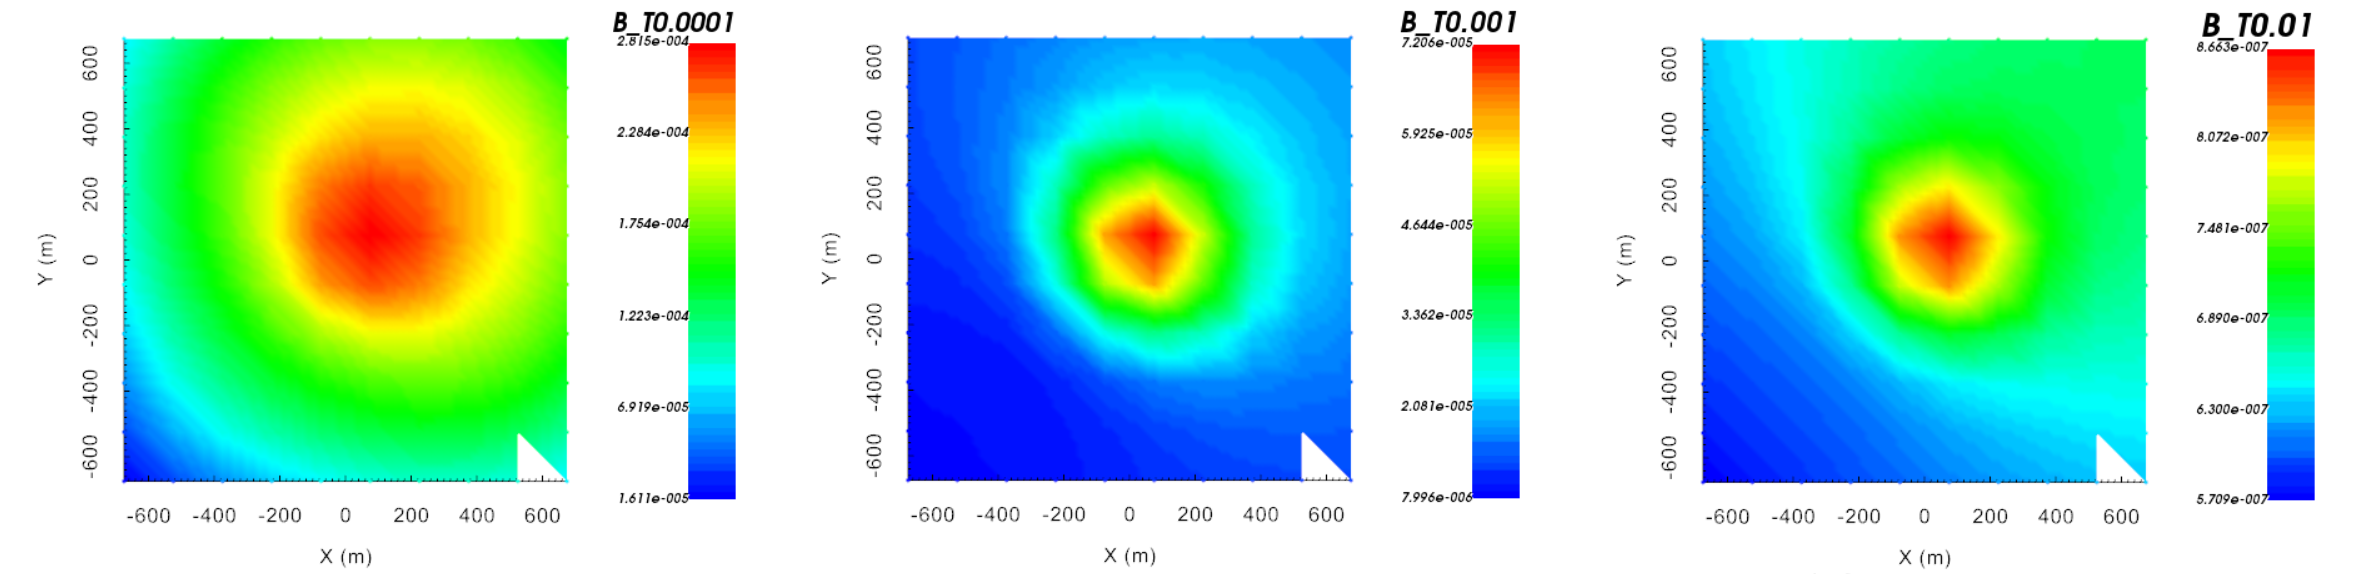
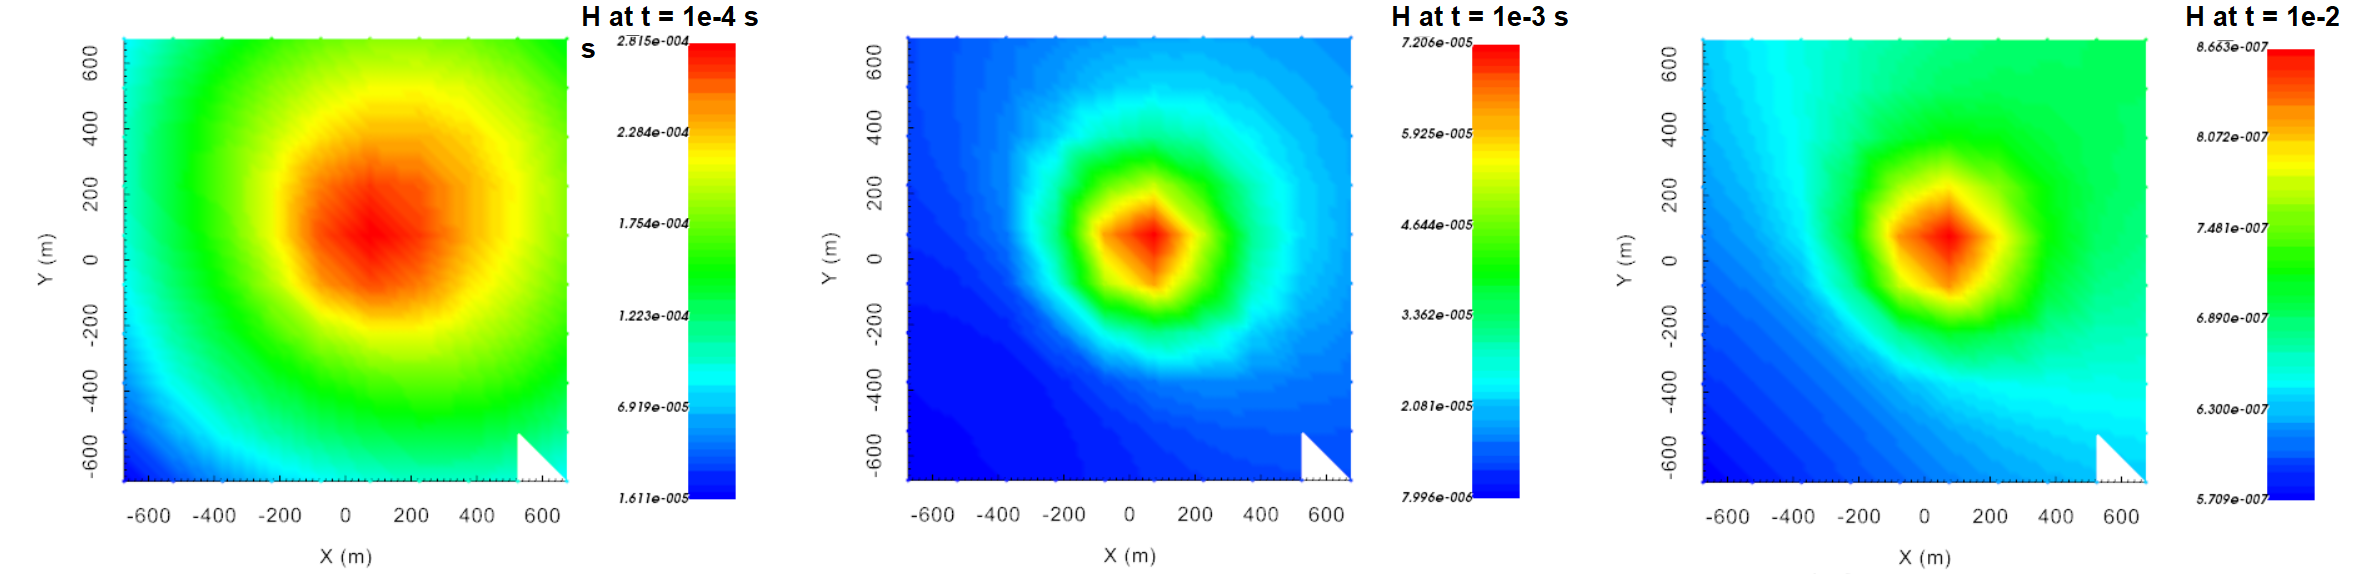
update SAM data for correct units

Changed region(s): [[0.587, 0.0, 0.6796, 0.0617], [0.9268, 0.0, 0.9886, 0.0617], [0.2471, 0.0, 0.3089, 0.0617]]

diff --git a/content/files/obsFile.rst b/content/files/obsFile.rst
@@ -193,25 +193,25 @@ Contains the X (Easting), Y (Northing), Z (elevation) locations and time channel
 
 .. math::
     \begin{align}
-    &\;\, x_1 \;\;\; y_1 \;\;\; z_1 \;\;\; t_1 \;\;\; B \;\;\; Unc \\
-    &\;\, x_1 \;\;\; y_1 \;\;\; z_1 \;\;\; t_2 \;\;\; B \;\;\; Unc \\
+    &\;\, x_1 \;\;\; y_1 \;\;\; z_1 \;\;\; t_1 \;\;\; H_a \;\;\; Unc \\
+    &\;\, x_1 \;\;\; y_1 \;\;\; z_1 \;\;\; t_2 \;\;\; H_a \;\;\; Unc \\
     &\;\;\;\;\;\;\;\;\;\;\;\;\;\;\;\;\;\;\; \vdots \\
-    &\;\, x_1 \;\;\; y_1 \;\;\; z_1 \;\;\; t_n \;\;\; B \;\;\; Unc \\
-    &\;\, x_2 \;\;\; y_2 \;\;\; z_2 \;\;\; t_1 \;\;\; B \;\;\; Unc \\
-    &\;\, x_2 \;\;\; y_2 \;\;\; z_2 \;\;\; t_2 \;\;\; B \;\;\; Unc \\
+    &\;\, x_1 \;\;\; y_1 \;\;\; z_1 \;\;\; t_n \;\;\; H_a \;\;\; Unc \\
+    &\;\, x_2 \;\;\; y_2 \;\;\; z_2 \;\;\; t_1 \;\;\; H_a \;\;\; Unc \\
+    &\;\, x_2 \;\;\; y_2 \;\;\; z_2 \;\;\; t_2 \;\;\; H_a \;\;\; Unc \\
     &\;\;\;\;\;\;\;\;\;\;\;\;\;\;\;\;\;\;\; \vdots \\
-    &\;\, x_2 \;\;\; y_2 \;\;\; z_2 \;\;\; t_n \;\;\; B \;\;\; Unc \\
+    &\;\, x_2 \;\;\; y_2 \;\;\; z_2 \;\;\; t_n \;\;\; H_a \;\;\; Unc \\
     &\;\;\;\;\;\;\;\;\;\;\;\;\;\;\;\;\;\;\; \vdots \\
     &\;\;\;\;\;\;\;\;\;\;\;\;\;\;\;\;\;\;\; \vdots \\
     &\;\;\;\;\;\;\;\;\;\;\;\;\;\;\;\;\;\;\; \vdots \\
-    &\; x_m \;\;\, y_m \;\;\, z_m \;\;\, t_1 \;\;\; B \;\;\; Unc \\
-    &\; x_m \;\;\, y_m \;\;\, z_m \;\;\, t_2 \;\;\; B \;\;\; Unc \\
+    &\; x_m \;\;\, y_m \;\;\, z_m \;\;\, t_1 \;\;\; H_a \;\;\; Unc \\
+    &\; x_m \;\;\, y_m \;\;\, z_m \;\;\, t_2 \;\;\; H_a \;\;\; Unc \\
     &\;\;\;\;\;\;\;\;\;\;\;\;\;\;\;\;\;\;\; \vdots \\
-    &\; x_m \;\;\, y_m \;\;\, z_m \;\;\, t_n \;\;\; B \;\;\; Unc
+    &\; x_m \;\;\, y_m \;\;\, z_m \;\;\, t_n \;\;\; H_a \;\;\; Unc
     \end{align}
 
 
 |
 |
 
-where :math:`B` is a placeholder for a SAM datum and :math:`Unc` is a placeholder for its uncertainty.
+where :math:`H_a` is a placeholder for a SAM datum and :math:`Unc` is a placeholder for its uncertainty. For *H3DTD v2*, SAM data is the projection of the anomalous magnetic field intensity (H-field) onto the direction of the Earth's magnetic field.

diff --git a/content/files/preFile.rst b/content/files/preFile.rst
@@ -79,28 +79,28 @@ Here we describe the predicted data file when modeling sub-audio magnetic (SAM) 
 
 .. math::
     \begin{align}
-    &\;\, x_1 \;\;\; y_1 \;\;\; z_1 \;\;\; t_1 \;\;\; B \\
-    &\;\, x_1 \;\;\; y_1 \;\;\; z_1 \;\;\; t_2 \;\;\; B \\
+    &\;\, x_1 \;\;\; y_1 \;\;\; z_1 \;\;\; t_1 \;\;\; H_a \\
+    &\;\, x_1 \;\;\; y_1 \;\;\; z_1 \;\;\; t_2 \;\;\; H_a \\
     &\;\;\;\;\;\;\;\;\;\;\;\;\;\;\;\; \vdots \\
-    &\;\, x_1 \;\;\; y_1 \;\;\; z_1 \;\;\; t_n \;\;\; B \\
-    &\;\, x_2 \;\;\; y_2 \;\;\; z_2 \;\;\; t_1 \;\;\; B \\
-    &\;\, x_2 \;\;\; y_2 \;\;\; z_2 \;\;\; t_2 \;\;\; B \\
+    &\;\, x_1 \;\;\; y_1 \;\;\; z_1 \;\;\; t_n \;\;\; H_a \\
+    &\;\, x_2 \;\;\; y_2 \;\;\; z_2 \;\;\; t_1 \;\;\; H_a \\
+    &\;\, x_2 \;\;\; y_2 \;\;\; z_2 \;\;\; t_2 \;\;\; H_a \\
     &\;\;\;\;\;\;\;\;\;\;\;\;\;\;\;\; \vdots \\
-    &\;\, x_2 \;\;\; y_2 \;\;\; z_2 \;\;\; t_n \;\;\; B \\
+    &\;\, x_2 \;\;\; y_2 \;\;\; z_2 \;\;\; t_n \;\;\; H_a \\
     &\;\;\;\;\;\;\;\;\;\;\;\;\;\;\;\; \vdots \\
     &\;\;\;\;\;\;\;\;\;\;\;\;\;\;\;\; \vdots \\
     &\;\;\;\;\;\;\;\;\;\;\;\;\;\;\;\; \vdots \\
-    &\; x_m \;\;\, y_m \;\;\, z_m \;\;\, t_1 \;\;\; B \\
-    &\; x_m \;\;\, y_m \;\;\, z_m \;\;\, t_2 \;\;\; B \\
+    &\; x_m \;\;\, y_m \;\;\, z_m \;\;\, t_1 \;\;\; H_a \\
+    &\; x_m \;\;\, y_m \;\;\, z_m \;\;\, t_2 \;\;\; H_a \\
     &\;\;\;\;\;\;\;\;\;\;\;\;\;\;\;\; \vdots \\
-    &\; x_m \;\;\, y_m \;\;\, z_m \;\;\, t_n \;\;\; B
+    &\; x_m \;\;\, y_m \;\;\, z_m \;\;\, t_n \;\;\; H_a
     \end{align}
 
 
 |
 |
 
-where :math:`B` is a placeholder for a SAM datum.
+where :math:`H_a` is a placeholder for a SAM datum. For *H3DTD v2*, SAM data is the projection of the anomalous magnetic field intensity (H-field) onto the direction of the Earth's magnetic field.
 
 
 

diff --git a/content/programs/inversion.rst b/content/programs/inversion.rst
@@ -16,7 +16,7 @@ Units
     - **Electric field data:** *Ex*, *Ey* and *Ez* in units V/m
     - **Magnetic field data:** *Hx*, *Hy* and *Hz* in units A/m. 
     - **Magnetic field data:** *dBx/dt*, *dBy/dt* and *-dBz/dt* in units T/s. The vertical component of dB/dt is represented using -dBz/dt due to a long-standing plotting convention 
-    - **SAM data:** The projection of the B-field along the direction of the Earth's magnetic field in units T
+    - **SAM data:** The projection of the anomalous H-field along the direction of the Earth's magnetic field in units A/m
     - **Conductivity model:** S/m
     - **Reference/starting conductivity model:** S/m 
     - **Model/interface weights:** unitless

diff --git a/content/programs/forward.rst b/content/programs/forward.rst
@@ -16,7 +16,7 @@ Units
     - **Electric field data:** *Ex*, *Ey* and *Ez* in units V/m
     - **Magnetic field data:** *Hx*, *Hy* and *Hz* in units A/m. 
     - **Magnetic field data:** *dBx/dt*, *dBy/dt* and *-dBz/dt* in units T/s. The vertical component of dB/dt is represented using -dBz/dt due to a long-standing plotting convention 
-    - **SAM data:** The projection of the B-field along the direction of the Earth's magnetic field in units T
+    - **SAM data:** The projection of the anomalous H-field along the direction of the Earth's magnetic field in units A/m
     - **Conductivity model:** S/m
     - **Susceptibility model:** SI
     - **Reference/starting conductivity model:** S/m 

diff --git a/content/example_sam/fwd.rst b/content/example_sam/fwd.rst
@@ -15,7 +15,7 @@ To forward model the data, the following input file was used:
      :align: center
      :width: 500
 
-H3DTD v2 forward models the projection of the B-field along the direction of the Earth's magnetic field. Below, we show SAM data at 0.0001 s, 0.001 s and 0.01 due to step-off excitation.
+H3DTD v2 forward models the projection of the anomalouus H-field along the direction of the Earth's magnetic field. Below, we show SAM data at 0.0001 s, 0.001 s and 0.01 due to step-off excitation.
 
 .. figure:: images/fwd.png
      :align: center
